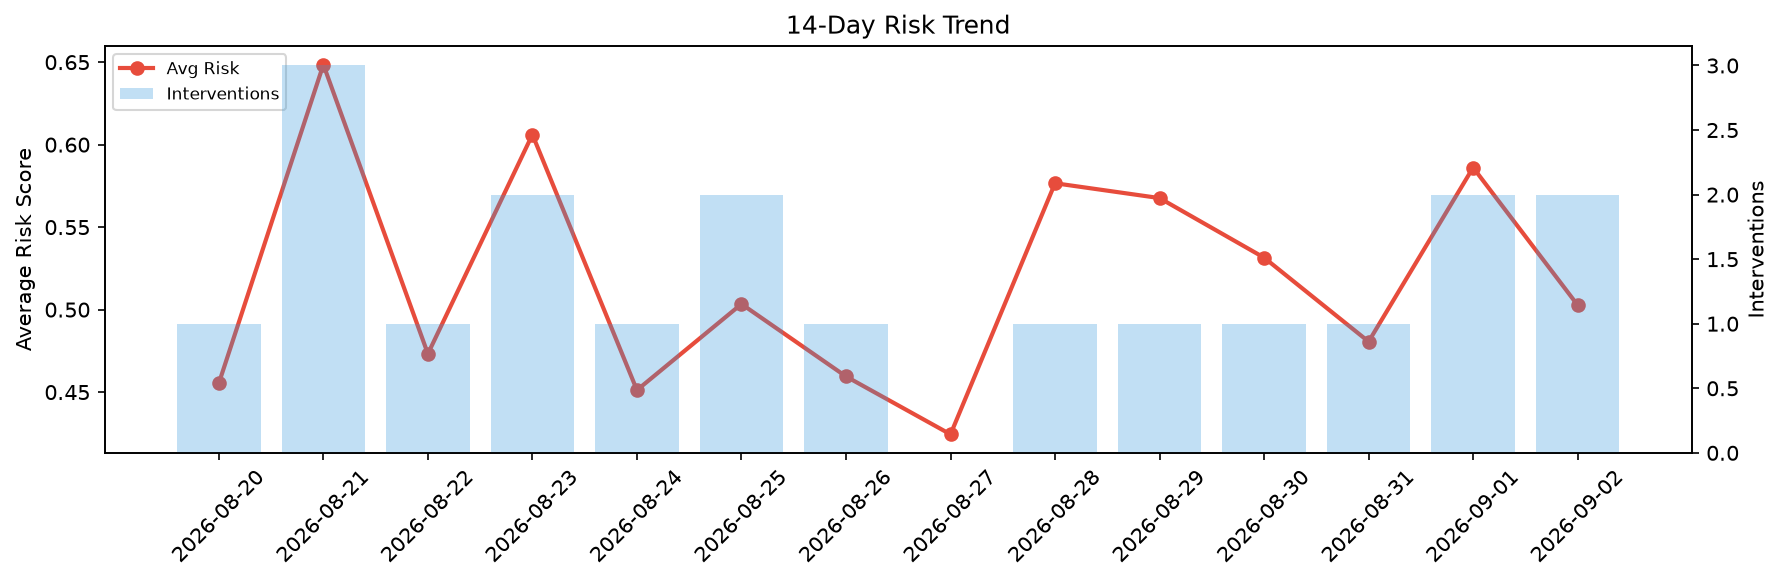
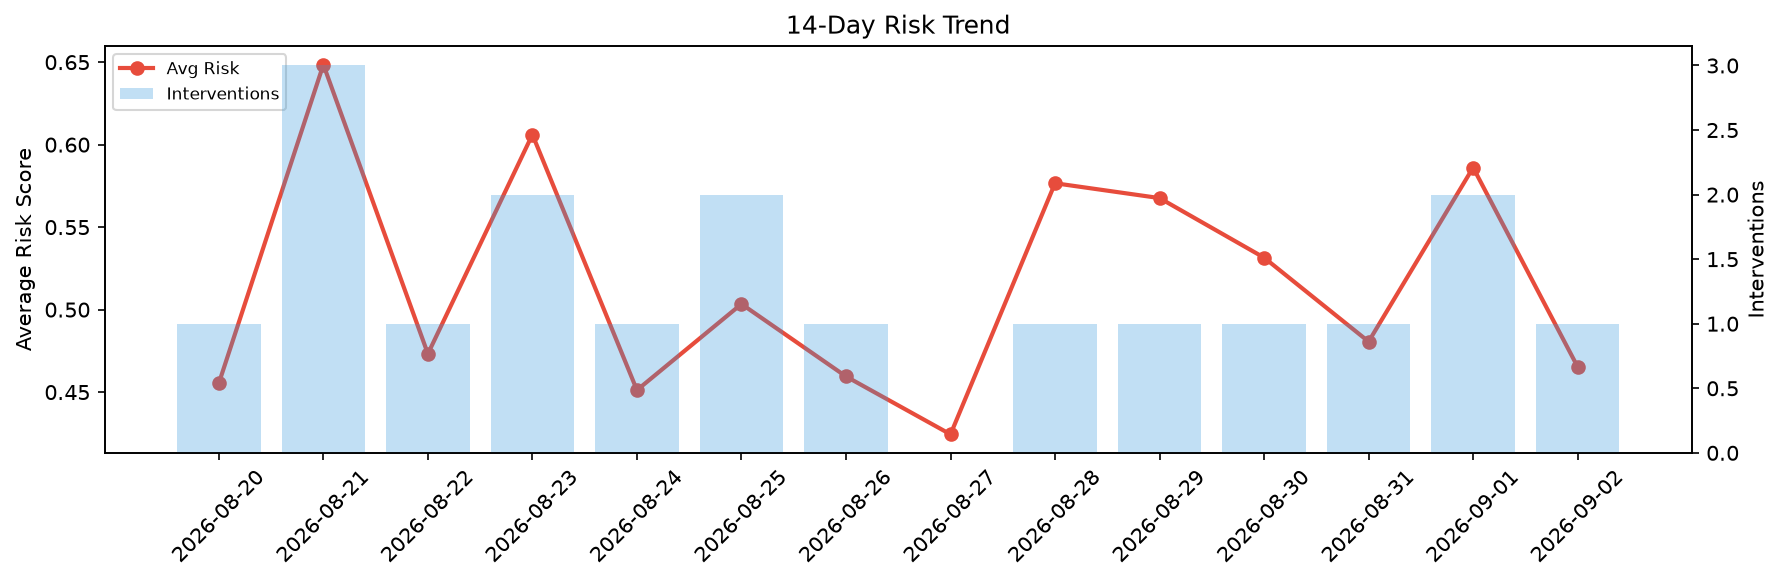
agent-improvement: daily cycle 2026-09-02T22:37

Changed region(s): [[0.8329, 0.3093, 0.9254, 0.5567], [0.8637, 0.6186, 0.8946, 0.6495]]

diff --git a/logs/2026-09-02.md b/logs/2026-09-02.md
@@ -1,6 +1,6 @@
 # Agent Improvement Report — 2026-09-02
 
-**Cycle ID:** `4f4e3f2b` | **Avg Risk:** 0.5027 | **Interventions:** 2/4
+**Cycle ID:** `c7d3cb0a` | **Avg Risk:** 0.4653 | **Interventions:** 1/4
 
 ![Dashboard](2026-09-02_dashboard.png)
 
@@ -10,18 +10,18 @@
 
 | Domain | Risk Score | Decision | Alerts |
 |--------|-----------|----------|--------|
-| code_review | 0.6272 | intervene | duplication, coverage |
-| incident_response | 0.7527 | intervene | severity, blast_radius |
-| data_pipeline | 0.382 | monitor | none |
-| deployment | 0.2488 | monitor | none |
+| code_review | 0.5903 | monitor | coverage |
+| incident_response | 0.2737 | monitor | none |
+| data_pipeline | 0.6118 | intervene | schema_drift |
+| deployment | 0.3853 | monitor | none |
 
 ## Delta vs Yesterday
 
 | Domain | Today | Yesterday | Change |
 |--------|-------|-----------|--------|
-| code_review | 0.6272 | 0.7192 | 📉 -12.8% |
-| incident_response | 0.7527 | 0.4499 | 📈 67.3% |
-| data_pipeline | 0.382 | 0.4372 | 📉 -12.6% |
-| deployment | 0.2488 | 0.7383 | 📉 -66.3% |
+| code_review | 0.5903 | 0.7192 | 📉 -17.9% |
+| incident_response | 0.2737 | 0.4499 | 📉 -39.2% |
+| data_pipeline | 0.6118 | 0.4372 | 📈 39.9% |
+| deployment | 0.3853 | 0.7383 | 📉 -47.8% |
 
 **Refinement:** `{'adjustment': 'maintain', 'trend': 'improving', 'window': 4}`
